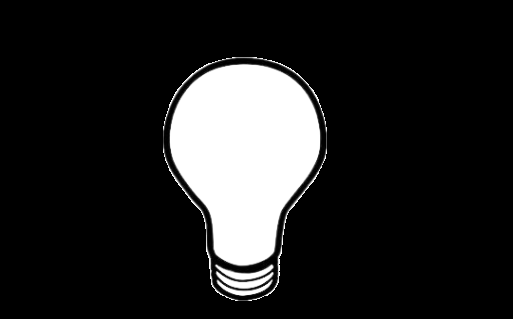
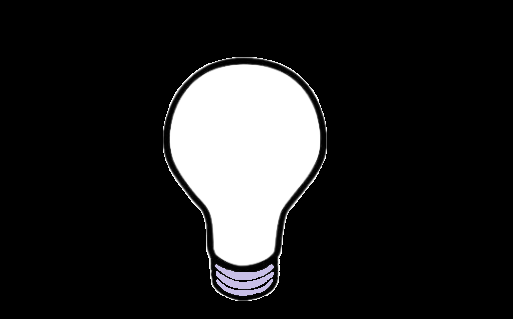
I have completed with Light Bulb

Changed region(s): [[0.4055, 0.8182, 0.5302, 0.931]]

diff --git a/script.js b/script.js
@@ -13,3 +13,35 @@ $(document).ready(function() {
     }
   });
 });
+
+$(document).ready(function() {
+  $('#col-img2').click(function() {
+    var image2 = $('#col-img2');
+    var Of2 = $('#ON-OFF2');
+    if (image2.hasClass('gray-Background')) {
+      image2.removeClass('gray-Background');
+      image2.addClass('yellow-Background');
+      Of2.text("Bulb is ON")
+    } else {
+      image2.removeClass('yellow-Background');
+      image2.addClass('gray-Background');
+      Of2.text("Bulb is OFF")
+    }
+  });
+});
+
+$(document).ready(function() {
+  $('#col-img3').click(function() {
+    var image3 = $('#col-img3');
+    var Of3 = $('#ON-OFF3');
+    if (image3.hasClass('gray-Background')) {
+      image3.removeClass('gray-Background');
+      image3.addClass('red-Background');
+      Of3.text("Bulb is ON")
+    } else {
+      image3.removeClass('red-Background');
+      image3.addClass('gray-Background');
+      Of3.text("Bulb is OFF")
+    }
+  });
+});

diff --git a/index.html b/index.html
@@ -8,10 +8,18 @@
   <title>Light Bulb</title>
 </head>
 <body>
-
+  
   <section class="text-center">
-    <img id="col-img" class="white-Background img-fluid " src="images/bulb-bg.png" alt="bulb-img">
-    <p id="ON-OFF" style="color: burlywood;margin-right:1%;">Bulb is ON</p>
+    <img id="col-img" class="gray-Background img-fluid " src="images/bulb-bg.png" alt="bulb-img">
+    <p id="ON-OFF" style="color: burlywood;margin-right:1%;">Bulb is OFF</p>
+  </section>
+  <section class="text-center">
+    <img id="col-img2" class="img-fluid gray-Background" src="images/bulb-bg.png" alt="bulb-img">
+    <p id="ON-OFF2" style="color: burlywood;margin-right:1%;">Bulb is OFF</p>
+  </section>
+  <section class="text-center">
+    <img id="col-img3" class="gray-Background img-fluid " src="images/bulb-bg.png" alt="bulb-img">
+    <p id="ON-OFF3" style="color: burlywood;margin-right:1%;">Bulb is OFF</p>
   </section>
 
   <!-- JQ and JS start here -->

diff --git a/style.css b/style.css
@@ -1,9 +1,22 @@
 body{
     background-color: black;
 }
+@media screen and (min-width:991px){
+    body{
+        display: flex;
+    }
+}
 .gray-Background {
-    background-color: gray;
+    background-color: rgb(98, 98, 98);
 }
 .white-Background{
     background-color:white;
+}
+
+.yellow-Background{
+    background-color:rgb(255, 231, 95);
+}
+
+.red-Background{
+    background-color:rgb(223, 65, 255);
 }
